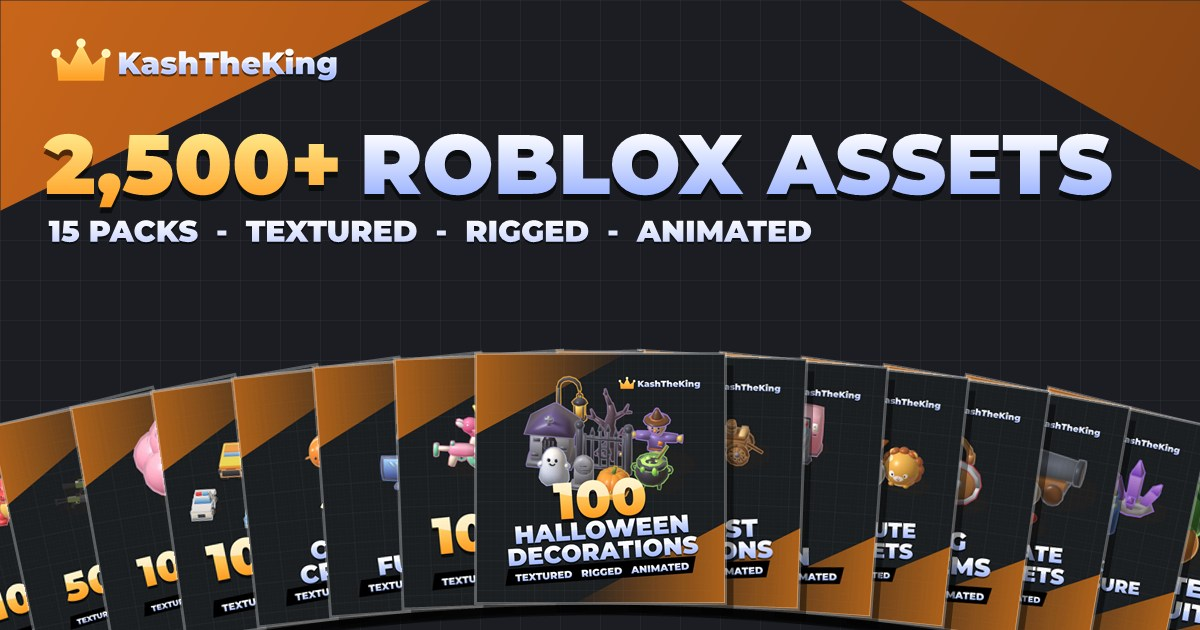
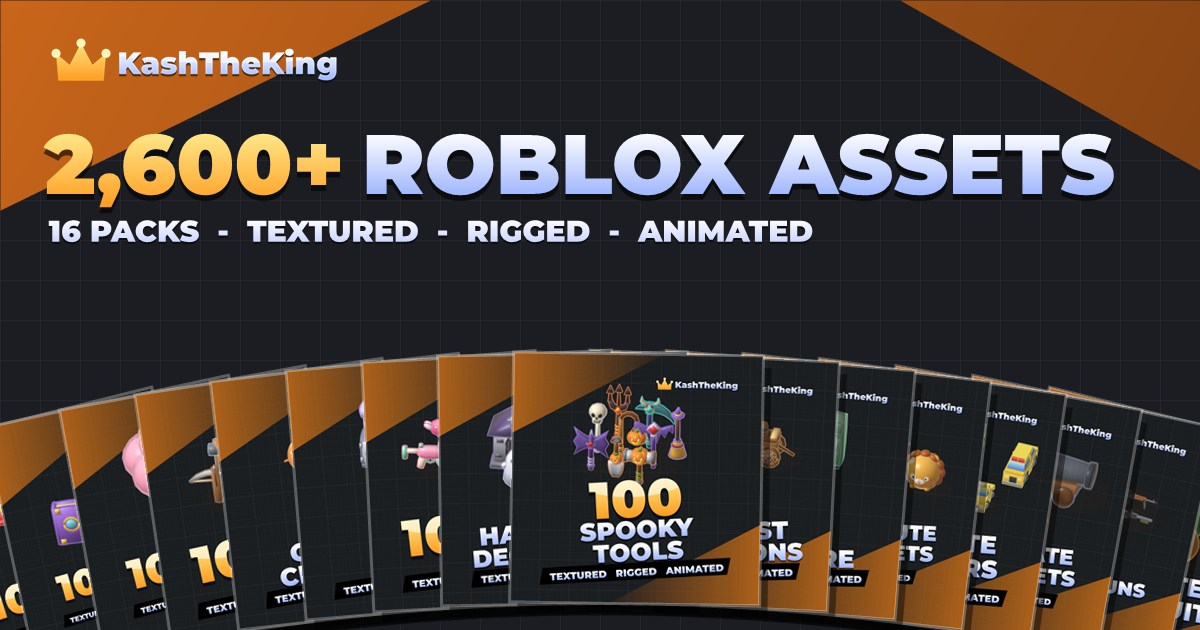
Shop: add 100 Spooky Tools

diff --git a/shop/100-spooky-tools/index.html b/shop/100-spooky-tools/index.html
@@ -1,0 +1,205 @@
+<!DOCTYPE html>
+<html lang="en">
+<head>
+    <meta charset="UTF-8">
+    <meta name="viewport" content="width=device-width, initial-scale=1.0">
+    <!--seo:start-->
+    <title>100 Spooky Tools - Roblox Asset Pack | KashTheKing Shop</title>
+    <meta name="description" content="100 chunky low-poly Halloween tools for simulator and survival games: axes, pickaxes, hammers, shovels, swords, scythes, staffs and pitchforks in upgrade tiers from wood and bone to pumpkin, bat, slime, skull and cursed. Textured, rigged and animated. 100 low-poly models for Roblox Studio, $9.99 on the Creator Store.">
+    <link rel="canonical" href="https://kashtheking.com/shop/100-spooky-tools/">
+    <meta property="og:type" content="product">
+    <meta property="og:site_name" content="KashTheKing Shop">
+    <meta property="og:url" content="https://kashtheking.com/shop/100-spooky-tools/">
+    <meta property="og:title" content="100 Spooky Tools - Roblox Asset Pack">
+    <meta property="og:description" content="100 chunky low-poly Halloween tools for simulator and survival games: axes, pickaxes, hammers, shovels, swords, scythes, staffs and pitchforks in upgrade tiers from wood and bone to pumpkin, bat, slime, skull and cursed. Textured, rigged and animated.">
+    <meta property="og:image" content="https://kashtheking.com/shop/img/100SpookyTools/01.jpg">
+    <meta name="twitter:card" content="summary_large_image">
+    <script type="application/ld+json">{"@context":"https://schema.org","@type":"Product","name":"100 Spooky Tools - Roblox Asset Pack","description":"100 chunky low-poly Halloween tools for simulator and survival games: axes, pickaxes, hammers, shovels, swords, scythes, staffs and pitchforks in upgrade tiers from wood and bone to pumpkin, bat, slime, skull and cursed. Textured, rigged and animated.","image":["https://kashtheking.com/shop/img/100SpookyTools.jpg","https://kashtheking.com/shop/img/100SpookyTools/01.jpg","https://kashtheking.com/shop/img/100SpookyTools/02.jpg","https://kashtheking.com/shop/img/100SpookyTools/03.jpg","https://kashtheking.com/shop/img/100SpookyTools/04.jpg","https://kashtheking.com/shop/img/100SpookyTools/05.jpg","https://kashtheking.com/shop/img/100SpookyTools/06.jpg","https://kashtheking.com/shop/img/100SpookyTools/09.jpg"],"url":"https://kashtheking.com/shop/100-spooky-tools/","category":"Roblox asset pack","brand":{"name":"KashTheKing","@type":"Brand"},"offers":{"@type":"Offer","price":"9.99","priceCurrency":"USD","availability":"https://schema.org/InStock","url":"https://create.roblox.com/store/asset/92600598493133"}}</script>
+    <script type="application/ld+json">{"@context":"https://schema.org","@type":"BreadcrumbList","itemListElement":[{"@type":"ListItem","position":1,"name":"KashTheKing","item":"https://kashtheking.com/"},{"@type":"ListItem","position":2,"name":"Roblox Asset Packs","item":"https://kashtheking.com/shop/"},{"@type":"ListItem","position":3,"name":"100 Spooky Tools","item":"https://kashtheking.com/shop/100-spooky-tools/"}]}</script>
+    <script>window.PACK_SLUG = "100SpookyTools";</script>
+<!--seo:end-->
+    <meta name="theme-color" content="#1c1e22">
+    <link rel="icon" type="image/png" sizes="32x32" href="/assets/favicon-crown-32.png">
+    <link rel="apple-touch-icon" sizes="180x180" href="/assets/favicon-crown-180.png">
+    <link href="https://fonts.googleapis.com/css2?family=Inter:wght@400;600;700;800&family=Montserrat:wght@800;900&display=swap" rel="stylesheet">
+    <style>
+        * { margin: 0; padding: 0; box-sizing: border-box; }
+        :root { --bg: #1c1e22; --panel: #26292e; --line: #3a3d44; --text: #fff; --dim: #a9adb6; --gold: #ffb02e; --gold-hi: #ffe98a; --blurple: #5865f2; }
+        body {
+            font-family: 'Inter', -apple-system, BlinkMacSystemFont, sans-serif; color: var(--text); min-height: 100vh; display: flex; flex-direction: column;
+            background-color: var(--bg);
+            background-image:
+                linear-gradient(rgba(62,65,70,.55) 1px, transparent 1px), linear-gradient(90deg, rgba(62,65,70,.55) 1px, transparent 1px),
+                linear-gradient(rgba(38,41,46,.9) 1px, transparent 1px), linear-gradient(90deg, rgba(38,41,46,.9) 1px, transparent 1px);
+            background-size: 128px 128px, 128px 128px, 32px 32px, 32px 32px;
+        }
+        a { color: inherit; }
+        :focus-visible { outline: 2px solid var(--gold); outline-offset: 3px; }
+        /* Standard watermark (assets/watermark.png), top left like the home page; links home */
+        .brand { position: absolute; top: 22px; left: 28px; z-index: 10; display: block; line-height: 0; text-decoration: none; }
+        .brand img { display: block; width: auto; height: 35px; filter: drop-shadow(0 2px 3px rgba(0,0,0,.45)); }
+        main { flex: 1; width: min(1280px, 100%); margin: 0 auto; padding: 84px 48px 72px; }
+        .back { display: inline-block; margin-bottom: 22px; color: var(--dim); text-decoration: none; font-weight: 600; font-size: 14px; }
+        .back:hover { color: var(--text); }
+        .top { display: grid; grid-template-columns: minmax(0, 1.55fr) minmax(280px, 1fr); gap: 36px; align-items: start; }
+
+        /* slideshow: a horizontal scroll-snap strip, so swiping, trackpads and the buttons all work */
+        .show { position: relative; }
+        .strip { display: flex; overflow-x: auto; scroll-snap-type: x mandatory; scroll-behavior: smooth; border-radius: 16px; border: 1px solid var(--line); background: #14171c; scrollbar-width: none; }
+        .strip::-webkit-scrollbar { display: none; }
+        .strip figure { flex: 0 0 100%; min-width: 0; scroll-snap-align: center; aspect-ratio: 16 / 10; overflow: hidden; }
+        .strip img { width: 100%; height: 100%; object-fit: contain; display: block; }
+        .nav { position: absolute; top: 50%; transform: translateY(-50%); width: 44px; height: 44px; border-radius: 50%; border: 0; background: rgba(0,0,0,.6); color: #fff; font-size: 22px; cursor: pointer; display: grid; place-items: center; }
+        .nav:hover { background: rgba(0,0,0,.85); }
+        .nav[disabled] { opacity: .25; cursor: default; }
+        .prev { left: 12px; } .next { right: 12px; }
+        /* zoom: + / - / reset buttons, mouse wheel over the image, drag to pan while zoomed */
+        .strip img { transform-origin: center; transition: transform .12s ease; will-change: transform; user-select: none; -webkit-user-drag: none; }
+        .strip.zoomed { overflow-x: hidden; scroll-snap-type: none; cursor: grab; }
+        .strip.zoomed.dragging { cursor: grabbing; } .strip.dragging img { transition: none; }
+        .zoom { position: absolute; right: 12px; bottom: 12px; display: flex; gap: 6px; padding: 6px; border-radius: 999px; background: rgba(0,0,0,.6); }
+        .zoom button { width: 34px; height: 34px; border-radius: 50%; border: 0; background: rgba(255,255,255,.14); color: #fff; font-size: 18px; font-weight: 700; cursor: pointer; }
+        .zoom button:hover { background: rgba(255,255,255,.28); } .zoom button[disabled] { opacity: .35; cursor: default; }
+        .zoom output { min-width: 46px; display: grid; place-items: center; font-size: 13px; font-weight: 700; color: #fff; }
+        .thumbs { display: flex; gap: 8px; margin-top: 12px; overflow-x: auto; padding-bottom: 4px; }
+        .thumbs button { flex: 0 0 auto; width: 84px; height: 56px; padding: 0; border-radius: 8px; border: 2px solid transparent; background: #14171c; cursor: pointer; overflow: hidden; opacity: .6; }
+        .thumbs button[aria-current="true"] { border-color: var(--gold); opacity: 1; }
+        .thumbs img { width: 100%; height: 100%; object-fit: cover; display: block; }
+
+        .side { background: rgba(38,41,46,.92); border: 1px solid var(--line); border-radius: 16px; padding: 26px; display: flex; flex-direction: column; gap: 16px; }
+        h1 { font-family: 'Montserrat', sans-serif; font-weight: 900; font-size: clamp(28px, 3.2vw, 40px); line-height: 1.05; }
+        .meta { display: flex; gap: 8px; flex-wrap: wrap; }
+        .meta span { padding: 4px 10px; border-radius: 6px; background: #1c1e22; color: #d6d9df; font-size: 12px; font-weight: 600; }
+        .desc { color: #d6d9df; line-height: 1.6; font-size: 15px; }
+        .price { font-family: 'Montserrat', sans-serif; font-weight: 900; font-size: 40px; color: var(--gold); }
+        .btn { display: block; text-align: center; padding: 15px 20px; border-radius: 12px; font-weight: 800; font-size: 16px; text-decoration: none; }
+        .roblox { background: var(--gold); color: #1c1e22; } .roblox:hover { background: var(--gold-hi); }
+        .discord { background: var(--blurple); color: #fff; } .discord:hover { filter: brightness(1.12); }
+        .or { text-align: center; color: var(--dim); font-size: 13px; }
+        .list { color: #d6d9df; font-size: 14px; line-height: 1.7; padding-left: 18px; }
+
+        h2 { font-family: 'Montserrat', sans-serif; font-weight: 900; font-size: 26px; margin: 64px 0 20px; }
+        .grid { display: grid; grid-template-columns: repeat(auto-fill, minmax(220px, 1fr)); gap: 20px; }
+        .card { display: flex; flex-direction: column; background: var(--panel); border: 1px solid var(--line); border-radius: 14px; overflow: hidden; text-decoration: none; transition: transform .15s ease, border-color .15s ease; }
+        .card:hover { transform: translateY(-4px); border-color: var(--gold); }
+        .card img { width: 100%; height: auto; aspect-ratio: 1; object-fit: cover; display: block; }
+        .card div { padding: 14px; display: flex; justify-content: space-between; align-items: center; gap: 10px; }
+        .card b { font-size: 15px; } .card span { font-family: 'Montserrat', sans-serif; font-weight: 900; color: var(--gold); }
+        .missing { padding: 80px 0; text-align: center; color: var(--dim); }
+        footer { padding: 28px 48px 40px; color: var(--dim); font-size: 13px; border-top: 1px solid var(--line); background: rgba(20,23,28,.8); }
+        footer a { color: var(--gold); }
+        @media (max-width: 860px) { main { padding: 84px 20px 56px; } .top { grid-template-columns: 1fr; } .brand { left: 16px; } footer { padding-inline: 20px; } .grid { grid-template-columns: repeat(auto-fill, minmax(150px, 1fr)); gap: 12px; } }
+        @media (prefers-reduced-motion: reduce) { * { transition: none !important; scroll-behavior: auto !important; } }
+    </style>
+</head>
+<body>
+    <a class="brand" href="https://kashtheking.com/" aria-label="KashTheKing home"><img class="mark" src="/assets/watermark.png" alt="KashTheKing" width="165" height="35"></a>
+    <main>
+        <a class="back" href="../">← All asset packs</a>
+        <div id="pack"><h1>100 Spooky Tools - Roblox Asset Pack</h1><p>100 chunky low-poly Halloween tools for simulator and survival games: axes, pickaxes, hammers, shovels, swords, scythes, staffs and pitchforks in upgrade tiers from wood and bone to pumpkin, bat, slime, skull and cursed. Textured, rigged and animated.</p><p>100 models, $9.99. <a href="https://create.roblox.com/store/asset/92600598493133">Get it on the Roblox Creator Store</a>.</p><img src="../img/100SpookyTools.jpg" alt="100 Spooky Tools Roblox asset pack thumbnail" width="540" height="540"></div>
+        <p id="missing" class="missing" hidden>That pack was not found. <a href="../">Browse all packs</a>.</p>
+        <section id="more" hidden>
+            <h2>You might also like</h2>
+            <div id="recommended" class="grid"></div>
+        </section>
+    </main>
+    <footer>© KashTheKing · <a href="/">kashtheking.com</a></footer>
+
+    <script>
+        // Page for one pack: /shop/pack/?p=<slug>. Data comes from ../packs.json (generated by build-shop.ps1).
+        const DISCORD = "https://discord.gg/6HYgCk22eD";
+        const slug = window.PACK_SLUG || new URLSearchParams(location.search).get("p");   // static pages (/shop/<page>/) set PACK_SLUG
+        const esc = s => String(s).replace(/[&<>"]/g, c => ({ "&": "&amp;", "<": "&lt;", ">": "&gt;", '"': "&quot;" }[c]));
+        fetch("../packs.json").then(r => r.json()).then(packs => {
+            const p = packs.find(x => x.slug === slug || x.page === slug);
+            if (p && !window.PACK_SLUG && p.page) { location.replace("../" + p.page + "/"); return; }   // old ?p= links go to the pack's own URL
+            if (!p) { document.getElementById("missing").hidden = false; return; }
+            if (!window.PACK_SLUG) document.title = `${p.name} | KashTheKing Shop`;   // static pages already carry their own title
+            const slides = p.slides && p.slides.length ? p.slides : [p.image];
+            document.getElementById("pack").innerHTML = `
+                <div class="top">
+                    <div>
+                        <div class="show">
+                            <div class="strip" id="strip" tabindex="0" aria-label="${esc(p.name)} images. Scroll or use the arrow buttons.">
+                                ${slides.map((s, i) => `<figure><img src="../${s}" alt="${esc(p.name)} image ${i + 1} of ${slides.length}" ${i ? 'loading="lazy"' : ""}></figure>`).join("")}
+                            </div>
+                            <button class="nav prev" id="prev" type="button" aria-label="Previous image">‹</button>
+                            <button class="nav next" id="next" type="button" aria-label="Next image">›</button>
+                            <div class="zoom" role="group" aria-label="Zoom">
+                                <button id="zout" type="button" aria-label="Zoom out">−</button>
+                                <output id="zlevel" aria-live="polite">100%</output>
+                                <button id="zin" type="button" aria-label="Zoom in">+</button>
+                                <button id="zreset" type="button" aria-label="Reset zoom">⟲</button>
+                            </div>
+                        </div>
+                        <div class="thumbs" id="thumbs">
+                            ${slides.map((s, i) => `<button type="button" aria-label="Show image ${i + 1}"><img src="../${s}" alt="" loading="lazy"></button>`).join("")}
+                        </div>
+                    </div>
+                    <aside class="side">
+                        <h1>${esc(p.name)}</h1>
+                        <div class="meta"><span>${p.count} models</span>${p.tags.map(t => `<span>${esc(t)}</span>`).join("")}</div>
+                        <p class="desc">${esc(p.description)}</p>
+                        <div class="price">$${p.price.toFixed(2)}</div>
+                        <a class="btn roblox" href="${p.url}" target="_blank" rel="noopener">Get on Roblox</a>
+                        <div class="or">or</div>
+                        <a class="btn discord" href="${DISCORD}" target="_blank" rel="noopener">Discord for other methods</a>
+                        <ul class="list">
+                            <li>Textured, rigged and animated</li>
+                            <li>One model to insert, ${p.count} assets inside</li>
+                            <li>Use in any game, including commercial ones</li>
+                        </ul>
+                    </aside>
+                </div>`;
+
+            // slideshow controls
+            const strip = document.getElementById("strip"), thumbs = [...document.getElementById("thumbs").children];
+            const prev = document.getElementById("prev"), next = document.getElementById("next");
+            const index = () => Math.round(strip.scrollLeft / strip.clientWidth);
+            const go = i => strip.scrollTo({ left: Math.max(0, Math.min(slides.length - 1, i)) * strip.clientWidth });
+            const sync = () => { const i = index(); thumbs.forEach((t, k) => t.setAttribute("aria-current", k === i)); prev.disabled = i === 0; next.disabled = i === slides.length - 1; };
+            prev.onclick = () => go(index() - 1); next.onclick = () => go(index() + 1);
+            thumbs.forEach((t, k) => t.onclick = () => go(k));
+            strip.addEventListener("scroll", () => requestAnimationFrame(sync));
+            strip.addEventListener("keydown", e => { if (e.key === "ArrowLeft") go(index() - 1); if (e.key === "ArrowRight") go(index() + 1); });
+            sync();
+
+            // zoom: scale the current image and let it be dragged around; any slide change resets it
+            const zin = document.getElementById("zin"), zout = document.getElementById("zout"), zreset = document.getElementById("zreset"), zlevel = document.getElementById("zlevel");
+            let zoom = 1, panX = 0, panY = 0, drag = null;
+            const current = () => strip.children[index()].querySelector("img");
+            function applyZoom() {
+                const limitX = strip.clientWidth * (zoom - 1) / 2, limitY = strip.clientHeight * (zoom - 1) / 2;
+                panX = Math.max(-limitX, Math.min(limitX, panX)); panY = Math.max(-limitY, Math.min(limitY, panY));
+                [...strip.querySelectorAll("img")].forEach(img => img.style.transform = "");
+                current().style.transform = zoom > 1 ? `translate(${panX}px, ${panY}px) scale(${zoom})` : "";
+                strip.classList.toggle("zoomed", zoom > 1);
+                zlevel.textContent = Math.round(zoom * 100) + "%";
+                zout.disabled = zreset.disabled = zoom <= 1; zin.disabled = zoom >= 4;
+            }
+            const setZoom = z => { zoom = Math.max(1, Math.min(4, Math.round(z * 4) / 4)); if (zoom === 1) panX = panY = 0; applyZoom(); };
+            zin.onclick = () => setZoom(zoom + 0.5); zout.onclick = () => setZoom(zoom - 0.5); zreset.onclick = () => setZoom(1);
+            strip.addEventListener("wheel", e => { if (e.ctrlKey || zoom > 1) { e.preventDefault(); setZoom(zoom + (e.deltaY < 0 ? 0.25 : -0.25)); } }, { passive: false });
+            strip.addEventListener("dblclick", () => setZoom(zoom > 1 ? 1 : 2));
+            strip.addEventListener("pointerdown", e => { if (zoom > 1) { drag = { x: e.clientX - panX, y: e.clientY - panY }; strip.classList.add("dragging"); strip.setPointerCapture(e.pointerId); } });
+            strip.addEventListener("pointermove", e => { if (drag) { panX = e.clientX - drag.x; panY = e.clientY - drag.y; applyZoom(); } });
+            const drop = () => { drag = null; strip.classList.remove("dragging"); };
+            strip.addEventListener("pointerup", drop); strip.addEventListener("pointercancel", drop);
+            [prev, next, ...thumbs].forEach(b => b.addEventListener("click", () => setZoom(1), true));
+            applyZoom();
+
+            // recommended: packs sharing the most tags first, then the newest
+            const score = x => x.tags.filter(t => p.tags.includes(t)).length;
+            const others = packs.filter(x => x.slug !== p.slug).sort((a, b) => score(b) - score(a)).slice(0, 4);
+            if (others.length) {
+                document.getElementById("more").hidden = false;
+                document.getElementById("recommended").innerHTML = others.map(o => `
+                    <a class="card" href="../${o.page}/">
+                        <img src="../${o.image}" alt="${esc(o.name)} thumbnail" loading="lazy" width="360" height="360">
+                        <div><b>${esc(o.name)}</b><span>$${o.price.toFixed(2)}</span></div>
+                    </a>`).join("");
+            }
+        }).catch(() => { document.getElementById("missing").hidden = false; });
+    </script>
+</body>
+</html>

diff --git a/shop/index.html b/shop/index.html
@@ -17,7 +17,7 @@
     <link rel="icon" type="image/png" sizes="32x32" href="/assets/favicon-crown-32.png">
     <link rel="apple-touch-icon" sizes="180x180" href="/assets/favicon-crown-180.png">
     <link rel="canonical" href="https://kashtheking.com/shop/">
-    <!--packs:start--><script type="application/ld+json">{"@context":"https://schema.org","@type":"ItemList","name":"Roblox asset packs by KashTheKing","numberOfItems":15,"itemListElement":[{"@type":"ListItem","position":1,"name":"100 Halloween Decorations","url":"https://kashtheking.com/shop/100-halloween-decorations/"},{"@type":"ListItem","position":2,"name":"100 Cute Guns","url":"https://kashtheking.com/shop/100-cute-guns/"},{"@type":"ListItem","position":3,"name":"100 Wild West Decorations","url":"https://kashtheking.com/shop/100-wild-west-decorations/"},{"@type":"ListItem","position":4,"name":"100 Cute Furniture","url":"https://kashtheking.com/shop/100-cute-furniture/"},{"@type":"ListItem","position":5,"name":"100 Cute Tycoon Assets","url":"https://kashtheking.com/shop/100-cute-tycoon-assets/"},{"@type":"ListItem","position":6,"name":"1000 Cute Pets","url":"https://kashtheking.com/shop/1000-cute-pets/"},{"@type":"ListItem","position":7,"name":"250 Cute Sea Creatures","url":"https://kashtheking.com/shop/250-cute-sea-creatures/"},{"@type":"ListItem","position":8,"name":"100 RPG Items","url":"https://kashtheking.com/shop/100-rpg-items/"},{"@type":"ListItem","position":9,"name":"100 Cute Cars","url":"https://kashtheking.com/shop/100-cute-cars/"},{"@type":"ListItem","position":10,"name":"100 Cute Foliage","url":"https://kashtheking.com/shop/100-cute-foliage/"},{"@type":"ListItem","position":11,"name":"100 Pirate Assets","url":"https://kashtheking.com/shop/100-pirate-assets/"},{"@type":"ListItem","position":12,"name":"100 Magic \u0026 Treasure Items","url":"https://kashtheking.com/shop/100-magic-and-treasure-items/"},{"@type":"ListItem","position":13,"name":"50 Low Poly Guns","url":"https://kashtheking.com/shop/50-low-poly-guns/"},{"@type":"ListItem","position":14,"name":"100 Cute Fruits","url":"https://kashtheking.com/shop/100-cute-fruits/"},{"@type":"ListItem","position":15,"name":"100 RPG Enemies","url":"https://kashtheking.com/shop/100-rpg-enemies/"}]}</script><!--packs:end-->
+    <!--packs:start--><script type="application/ld+json">{"@context":"https://schema.org","@type":"ItemList","name":"Roblox asset packs by KashTheKing","numberOfItems":16,"itemListElement":[{"@type":"ListItem","position":1,"name":"100 Spooky Tools","url":"https://kashtheking.com/shop/100-spooky-tools/"},{"@type":"ListItem","position":2,"name":"100 Halloween Decorations","url":"https://kashtheking.com/shop/100-halloween-decorations/"},{"@type":"ListItem","position":3,"name":"100 Cute Guns","url":"https://kashtheking.com/shop/100-cute-guns/"},{"@type":"ListItem","position":4,"name":"100 Wild West Decorations","url":"https://kashtheking.com/shop/100-wild-west-decorations/"},{"@type":"ListItem","position":5,"name":"100 Cute Furniture","url":"https://kashtheking.com/shop/100-cute-furniture/"},{"@type":"ListItem","position":6,"name":"100 Cute Tycoon Assets","url":"https://kashtheking.com/shop/100-cute-tycoon-assets/"},{"@type":"ListItem","position":7,"name":"1000 Cute Pets","url":"https://kashtheking.com/shop/1000-cute-pets/"},{"@type":"ListItem","position":8,"name":"250 Cute Sea Creatures","url":"https://kashtheking.com/shop/250-cute-sea-creatures/"},{"@type":"ListItem","position":9,"name":"100 RPG Items","url":"https://kashtheking.com/shop/100-rpg-items/"},{"@type":"ListItem","position":10,"name":"100 Cute Cars","url":"https://kashtheking.com/shop/100-cute-cars/"},{"@type":"ListItem","position":11,"name":"100 Cute Foliage","url":"https://kashtheking.com/shop/100-cute-foliage/"},{"@type":"ListItem","position":12,"name":"100 Pirate Assets","url":"https://kashtheking.com/shop/100-pirate-assets/"},{"@type":"ListItem","position":13,"name":"100 Magic \u0026 Treasure Items","url":"https://kashtheking.com/shop/100-magic-and-treasure-items/"},{"@type":"ListItem","position":14,"name":"50 Low Poly Guns","url":"https://kashtheking.com/shop/50-low-poly-guns/"},{"@type":"ListItem","position":15,"name":"100 Cute Fruits","url":"https://kashtheking.com/shop/100-cute-fruits/"},{"@type":"ListItem","position":16,"name":"100 RPG Enemies","url":"https://kashtheking.com/shop/100-rpg-enemies/"}]}</script><!--packs:end-->
     <link href="https://fonts.googleapis.com/css2?family=Inter:wght@400;600;700;800&family=Montserrat:wght@800;900&display=swap" rel="stylesheet">
     <style>
         * { margin: 0; padding: 0; box-sizing: border-box; }
@@ -104,7 +104,7 @@
     </div>
 
     <main>
-        <div id="grid" class="grid" aria-live="polite"><!--grid:start--><a class="card" href="100-halloween-decorations/"><img src="img/100HalloweenDecor.jpg" alt="100 Halloween Decorations Roblox asset pack" loading="lazy" width="540" height="540"><div class="body"><h2>100 Halloween Decorations</h2><p>100 chunky cute-spooky Halloween map decorations: dead trees, pumpkins and jack-o-lanterns, gravestones and crypts, fences and gates, candles and lanterns, witch props, bones and decor. Textured, rigged and animated.</p></div></a><a class="card" href="100-cute-guns/"><img src="img/100CuteGuns.jpg" alt="100 Cute Guns Roblox asset pack" loading="lazy" width="540" height="540"><div class="body"><h2>100 Cute Guns</h2><p>100 cute, chubby toy blasters: pistols, SMGs, rifles, shotguns, snipers, launchers, ray guns and novelty guns in pastel and candy colours. Textured, rigged and animated.</p></div></a><a class="card" href="100-wild-west-decorations/"><img src="img/100WildWest.jpg" alt="100 Wild West Decorations Roblox asset pack" loading="lazy" width="540" height="540"><div class="body"><h2>100 Wild West Decorations</h2><p>100 chunky low-poly Wild West map decorations: cacti, tumbleweeds, dead trees, desert rocks and mesas, town props, ranch fences and wagons, mine carts and rails, and camp gear. Textured, rigged and animated.</p></div></a><a class="card" href="100-cute-furniture/"><img src="img/100CuteFurniture.jpg" alt="100 Cute Furniture Roblox asset pack" loading="lazy" width="540" height="540"><div class="body"><h2>100 Cute Furniture</h2><p>100 cute rounded low-poly furniture pieces in pastel colours for roleplay, housing and tycoon games: living room, bedroom, kitchen, bathroom, office, kids and gaming, decor and outdoor. Textured, rigged and animated.</p></div></a><a class="card" href="100-cute-tycoon-assets/"><img src="img/100CuteTycoon.jpg" alt="100 Cute Tycoon Assets Roblox asset pack" loading="lazy" width="540" height="540"><div class="body"><h2>100 Cute Tycoon Assets</h2><p>100 cute rounded pastel tycoon assets: droppers in ten tiers, conveyors and pipes, upgraders, furnaces and machines, cash, coins, gold and safes, crates and ores, walls, doors, floors and stairs, decor, buttons, pads, trophies and a teleporter. Textured, rigged and animated.</p></div></a><a class="card" href="1000-cute-pets/"><img src="img/1000CutePets.jpg" alt="1000 Cute Pets Roblox asset pack" loading="lazy" width="540" height="540"><div class="body"><h2>1000 Cute Pets</h2><p>1000 cute round pets and animals with happy, neutral and angry faces. Cats, dogs, farm, forest, safari, birds, reptiles, sea creatures, bugs and mythical beasts. Textured, rigged and animated.</p></div></a><a class="card" href="250-cute-sea-creatures/"><img src="img/250CuteSeaCreatures.jpg" alt="250 Cute Sea Creatures Roblox asset pack" loading="lazy" width="540" height="540"><div class="body"><h2>250 Cute Sea Creatures</h2><p>250 cute low-poly sea creatures: fish, sharks, whales, dolphins, crabs, lobsters, octopuses, squid, jellyfish and more. They swim, blink and bite. Textured, rigged and animated.</p></div></a><a class="card" href="100-rpg-items/"><img src="img/100RPGItems.jpg" alt="100 RPG Items Roblox asset pack" loading="lazy" width="540" height="540"><div class="body"><h2>100 RPG Items</h2><p>100 chunky low-poly RPG and survival items: tools, weapons, armour, gear, food, resources, crafting stations and economy props. Textured, rigged and animated.</p></div></a><a class="card" href="100-cute-cars/"><img src="img/100CuteCars.jpg" alt="100 Cute Cars Roblox asset pack" loading="lazy" width="540" height="540"><div class="body"><h2>100 Cute Cars</h2><p>100 low-poly cartoon cars: compacts, sedans, sports cars, utility vehicles, service vehicles, fun vehicles, heavy trucks and vintage cars. Wheels are separate bones that spin, tyres have a black outline, no interiors. Textured, rigged and animated.</p></div></a><a class="card" href="100-cute-foliage/"><img src="img/100CuteFoliage.jpg" alt="100 Cute Foliage Roblox asset pack" loading="lazy" width="540" height="540"><div class="body"><h2>100 Cute Foliage</h2><p>100 cute low-poly terrain decorations: trees, pines, bushes, grass, flowers, mushrooms, rocks, fallen logs and stumps. Textured, rigged and animated.</p></div></a><a class="card" href="100-pirate-assets/"><img src="img/100PirateAssets.jpg" alt="100 Pirate Assets Roblox asset pack" loading="lazy" width="540" height="540"><div class="body"><h2>100 Pirate Assets</h2><p>100 chunky low-poly pirate assets: characters, creatures, weapons, treasure, ship parts and island props. Textured, rigged and animated.</p></div></a><a class="card" href="100-magic-and-treasure-items/"><img src="img/100MagicTreasure.jpg" alt="100 Magic &amp; Treasure Items Roblox asset pack" loading="lazy" width="540" height="540"><div class="body"><h2>100 Magic &amp; Treasure Items</h2><p>100 chunky low-poly potions, gems, crystals, magic items, jewelry and treasure. Textured, rigged and animated.</p></div></a><a class="card" href="50-low-poly-guns/"><img src="img/50LowPolyGuns.jpg" alt="50 Low Poly Guns Roblox asset pack" loading="lazy" width="540" height="540"><div class="body"><h2>50 Low Poly Guns</h2><p>50 chunky low-poly guns and firearms. Textured, rigged and animated.</p></div></a><a class="card" href="100-cute-fruits/"><img src="img/100CuteFruits.jpg" alt="100 Cute Fruits Roblox asset pack" loading="lazy" width="540" height="540"><div class="body"><h2>100 Cute Fruits</h2><p>100 cute low-poly fruits with blinking faces and a soft glowing outline. Every fruit has an idle wiggle and a blink.</p></div></a><a class="card" href="100-rpg-enemies/"><img src="img/100RPGEnemies.jpg" alt="100 RPG Enemies Roblox asset pack" loading="lazy" width="540" height="540"><div class="body"><h2>100 RPG Enemies</h2><p>100 chunky low-poly RPG enemies: cute slimes, big angry slimes, skeletons, undead, goblins and orcs, golems, dragons, beasts and dark forces. Textured, rigged and animated.</p></div></a><!--grid:end--></div>
+        <div id="grid" class="grid" aria-live="polite"><!--grid:start--><a class="card" href="100-spooky-tools/"><img src="img/100SpookyTools.jpg" alt="100 Spooky Tools Roblox asset pack" loading="lazy" width="540" height="540"><div class="body"><h2>100 Spooky Tools</h2><p>100 chunky low-poly Halloween tools for simulator and survival games: axes, pickaxes, hammers, shovels, swords, scythes, staffs and pitchforks in upgrade tiers from wood and bone to pumpkin, bat, slime, skull and cursed. Textured, rigged and animated.</p></div></a><a class="card" href="100-halloween-decorations/"><img src="img/100HalloweenDecor.jpg" alt="100 Halloween Decorations Roblox asset pack" loading="lazy" width="540" height="540"><div class="body"><h2>100 Halloween Decorations</h2><p>100 chunky cute-spooky Halloween map decorations: dead trees, pumpkins and jack-o-lanterns, gravestones and crypts, fences and gates, candles and lanterns, witch props, bones and decor. Textured, rigged and animated.</p></div></a><a class="card" href="100-cute-guns/"><img src="img/100CuteGuns.jpg" alt="100 Cute Guns Roblox asset pack" loading="lazy" width="540" height="540"><div class="body"><h2>100 Cute Guns</h2><p>100 cute, chubby toy blasters: pistols, SMGs, rifles, shotguns, snipers, launchers, ray guns and novelty guns in pastel and candy colours. Textured, rigged and animated.</p></div></a><a class="card" href="100-wild-west-decorations/"><img src="img/100WildWest.jpg" alt="100 Wild West Decorations Roblox asset pack" loading="lazy" width="540" height="540"><div class="body"><h2>100 Wild West Decorations</h2><p>100 chunky low-poly Wild West map decorations: cacti, tumbleweeds, dead trees, desert rocks and mesas, town props, ranch fences and wagons, mine carts and rails, and camp gear. Textured, rigged and animated.</p></div></a><a class="card" href="100-cute-furniture/"><img src="img/100CuteFurniture.jpg" alt="100 Cute Furniture Roblox asset pack" loading="lazy" width="540" height="540"><div class="body"><h2>100 Cute Furniture</h2><p>100 cute rounded low-poly furniture pieces in pastel colours for roleplay, housing and tycoon games: living room, bedroom, kitchen, bathroom, office, kids and gaming, decor and outdoor. Textured, rigged and animated.</p></div></a><a class="card" href="100-cute-tycoon-assets/"><img src="img/100CuteTycoon.jpg" alt="100 Cute Tycoon Assets Roblox asset pack" loading="lazy" width="540" height="540"><div class="body"><h2>100 Cute Tycoon Assets</h2><p>100 cute rounded pastel tycoon assets: droppers in ten tiers, conveyors and pipes, upgraders, furnaces and machines, cash, coins, gold and safes, crates and ores, walls, doors, floors and stairs, decor, buttons, pads, trophies and a teleporter. Textured, rigged and animated.</p></div></a><a class="card" href="1000-cute-pets/"><img src="img/1000CutePets.jpg" alt="1000 Cute Pets Roblox asset pack" loading="lazy" width="540" height="540"><div class="body"><h2>1000 Cute Pets</h2><p>1000 cute round pets and animals with happy, neutral and angry faces. Cats, dogs, farm, forest, safari, birds, reptiles, sea creatures, bugs and mythical beasts. Textured, rigged and animated.</p></div></a><a class="card" href="250-cute-sea-creatures/"><img src="img/250CuteSeaCreatures.jpg" alt="250 Cute Sea Creatures Roblox asset pack" loading="lazy" width="540" height="540"><div class="body"><h2>250 Cute Sea Creatures</h2><p>250 cute low-poly sea creatures: fish, sharks, whales, dolphins, crabs, lobsters, octopuses, squid, jellyfish and more. They swim, blink and bite. Textured, rigged and animated.</p></div></a><a class="card" href="100-rpg-items/"><img src="img/100RPGItems.jpg" alt="100 RPG Items Roblox asset pack" loading="lazy" width="540" height="540"><div class="body"><h2>100 RPG Items</h2><p>100 chunky low-poly RPG and survival items: tools, weapons, armour, gear, food, resources, crafting stations and economy props. Textured, rigged and animated.</p></div></a><a class="card" href="100-cute-cars/"><img src="img/100CuteCars.jpg" alt="100 Cute Cars Roblox asset pack" loading="lazy" width="540" height="540"><div class="body"><h2>100 Cute Cars</h2><p>100 low-poly cartoon cars: compacts, sedans, sports cars, utility vehicles, service vehicles, fun vehicles, heavy trucks and vintage cars. Wheels are separate bones that spin, tyres have a black outline, no interiors. Textured, rigged and animated.</p></div></a><a class="card" href="100-cute-foliage/"><img src="img/100CuteFoliage.jpg" alt="100 Cute Foliage Roblox asset pack" loading="lazy" width="540" height="540"><div class="body"><h2>100 Cute Foliage</h2><p>100 cute low-poly terrain decorations: trees, pines, bushes, grass, flowers, mushrooms, rocks, fallen logs and stumps. Textured, rigged and animated.</p></div></a><a class="card" href="100-pirate-assets/"><img src="img/100PirateAssets.jpg" alt="100 Pirate Assets Roblox asset pack" loading="lazy" width="540" height="540"><div class="body"><h2>100 Pirate Assets</h2><p>100 chunky low-poly pirate assets: characters, creatures, weapons, treasure, ship parts and island props. Textured, rigged and animated.</p></div></a><a class="card" href="100-magic-and-treasure-items/"><img src="img/100MagicTreasure.jpg" alt="100 Magic &amp; Treasure Items Roblox asset pack" loading="lazy" width="540" height="540"><div class="body"><h2>100 Magic &amp; Treasure Items</h2><p>100 chunky low-poly potions, gems, crystals, magic items, jewelry and treasure. Textured, rigged and animated.</p></div></a><a class="card" href="50-low-poly-guns/"><img src="img/50LowPolyGuns.jpg" alt="50 Low Poly Guns Roblox asset pack" loading="lazy" width="540" height="540"><div class="body"><h2>50 Low Poly Guns</h2><p>50 chunky low-poly guns and firearms. Textured, rigged and animated.</p></div></a><a class="card" href="100-cute-fruits/"><img src="img/100CuteFruits.jpg" alt="100 Cute Fruits Roblox asset pack" loading="lazy" width="540" height="540"><div class="body"><h2>100 Cute Fruits</h2><p>100 cute low-poly fruits with blinking faces and a soft glowing outline. Every fruit has an idle wiggle and a blink.</p></div></a><a class="card" href="100-rpg-enemies/"><img src="img/100RPGEnemies.jpg" alt="100 RPG Enemies Roblox asset pack" loading="lazy" width="540" height="540"><div class="body"><h2>100 RPG Enemies</h2><p>100 chunky low-poly RPG enemies: cute slimes, big angry slimes, skeletons, undead, goblins and orcs, golems, dragons, beasts and dark forces. Textured, rigged and animated.</p></div></a><!--grid:end--></div>
         <p id="empty" class="empty" hidden>No packs match that search.</p>
 
         <section class="info" aria-label="About the packs">
